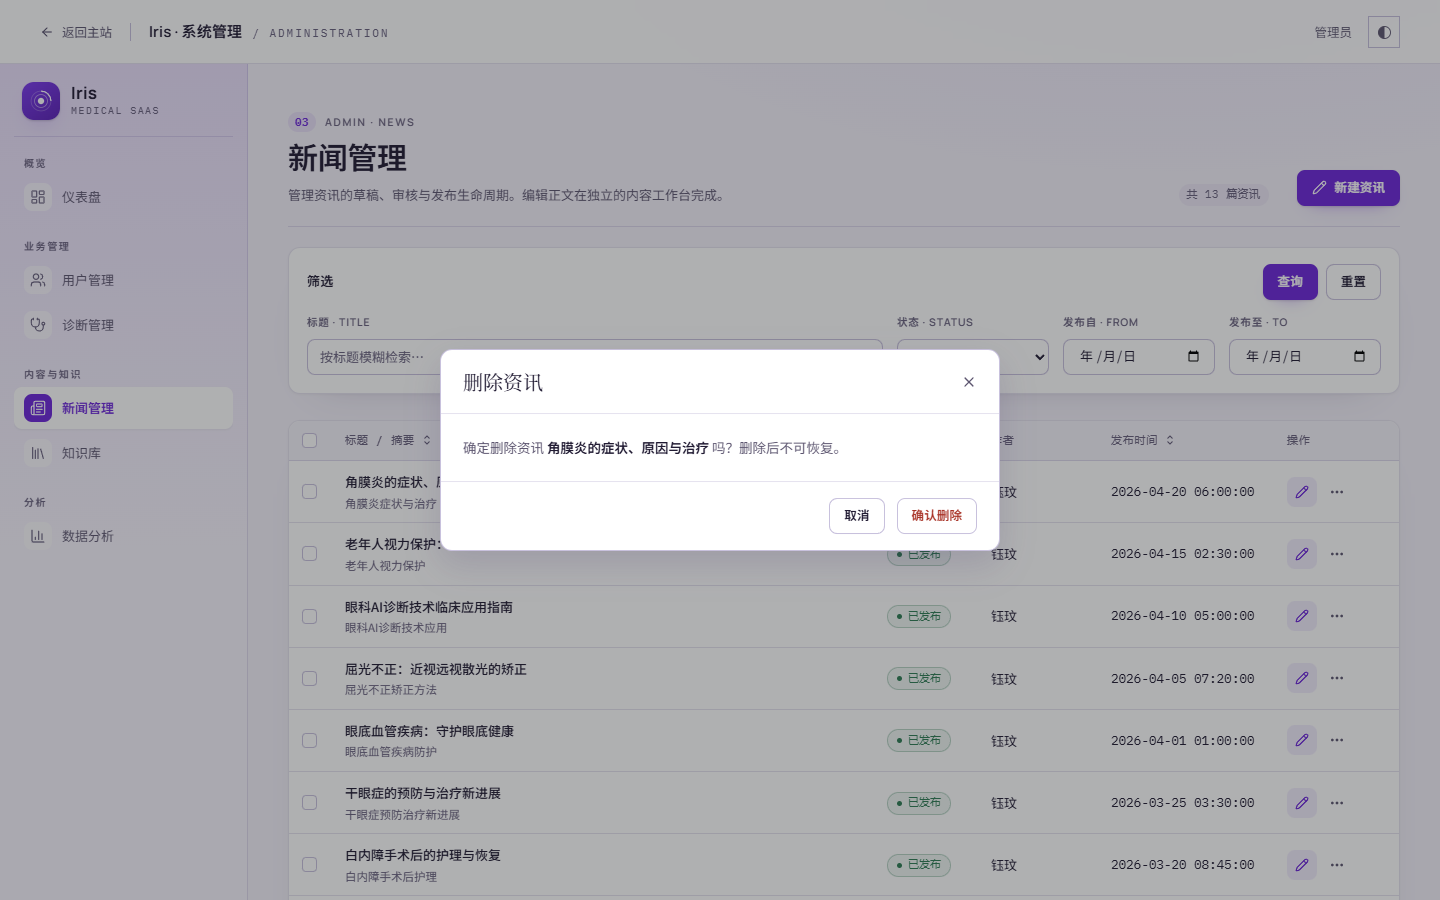
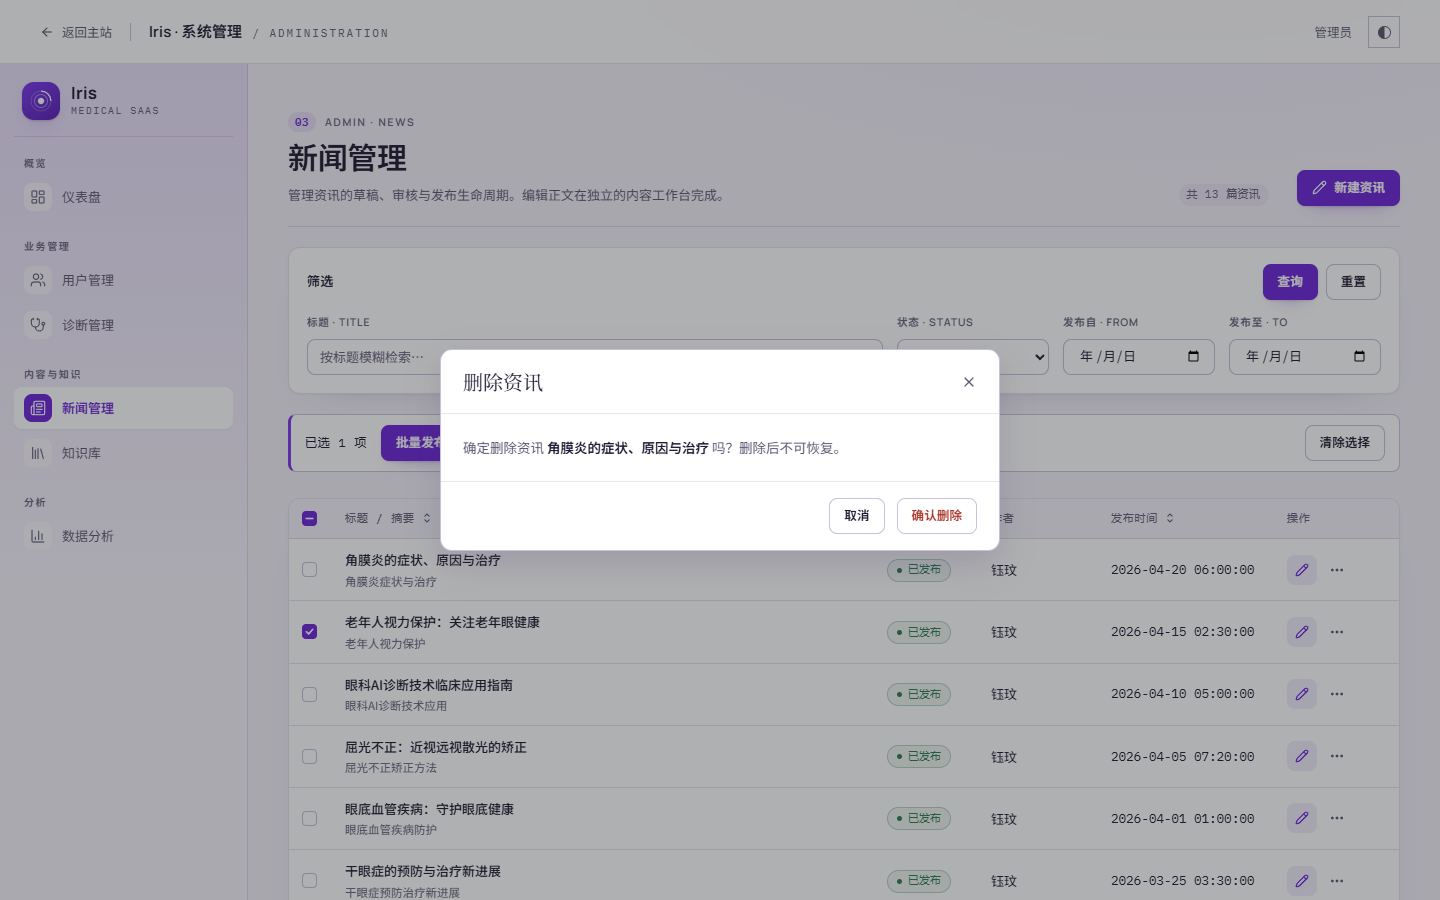
docs: r3 近景补采——第二轮评审三条退出标准逐条像素闭环
- r3-batchbar-news / r3-batchbar-users：批量删除已渲染为
  admin-btn--danger（与确认弹层同口径），批量下架/封禁/解封中性。
- r3-error-news：错误态分页实测「共 – 条 · 第 – / – 页」，
  不再发布伪造零值；恢复后回「共 13 条 · 第 1 / 2 页」。
- r3-checkbox-checked-light/dark：勾选态复选框首次入镜
  （暗底 #b39dfb 填充 + #171322 标记，7.92:1）。
- r3-w390-{diagnosis,users}-filter：「展开筛选」390 档实测单行
  （高 30px），此前两行是捕获时序差，非缺陷。

评审报告 r2/visual-review-report.md 判定 READY FOR HUMAN REVIEW
（0 P0 / 0 P1 / 3 P2 全部关闭）。

diff --git a/docs/design/admin-redesign-after/README.md b/docs/design/admin-redesign-after/README.md
@@ -20,7 +20,7 @@
 | `r3/dark/*.png` | 视觉评审整改后复采，7 页，1440 深色 |
 | `r3/w390/` `r3/w768/` `r3/w1280/` `r3/w1920/` | 视觉评审整改后复采，7 页，对应视口宽度（浅色） |
 | `r3/dark-w390/` `r3/dark-w768/` | 视觉评审整改后复采，7 页，390 / 768 深色 |
-| `r3/closeups/` | 交互与状态近景：行菜单、批量操作条、判读详情 Drawer、删除确认 Dialog、骨架屏、错误态 |
+| `r3/closeups/` | 交互与状态近景：行菜单、批量操作条（danger 删除 / 中性封禁）、判读详情 Drawer、删除确认 Dialog、骨架屏、错误态（含「共 — 条」分页）、勾选复选框（浅/暗）、390 档「展开筛选」单行 |
 
 `r1` 是初版交付截图；`r2` 是功能评审 P0/P1/P2 整改后的复采证据
 （零值纪律、列表总数三态、Bento 1024–1280 栅格、编辑器保存语义、摘要口径、
@@ -28,7 +28,11 @@
 （窄屏筛选折叠、暗色 hero / 复选框、禁用主按钮可读性、弹性列零宽修复：
 知识库文档列 / 诊断判读结果列给底宽，390px 行高回归正常）；
 `r3/dark-w390` / `r3/dark-w768` 补双主题窄屏档，`r3/closeups/` 补
-行菜单 / 批量条 / Drawer / Dialog / 骨架 / 错误六类交互与状态近景。
+行菜单 / 批量条 / Drawer / Dialog / 骨架 / 错误 / 勾选态 / 窄屏筛选
+八类交互与状态近景。第二轮独立视觉评审的 P1（sticky 操作列行内宽度
+盖住内容列，`!important` 收窄）与两条 P2（批量删除 danger 统一、
+错误态分页报「—」）均已修复并像素级复验；「展开筛选两行」经实测
+为捕获时序差，nowrap 落地后 390 档四台账均单行。
 暗色判定以像素为准（画布底色 `26,23,39`，复选框暗底勾选对比 7.92:1）。
 采集脚本在 `web/scripts/evidence/admin-redesign.mjs`。
 
